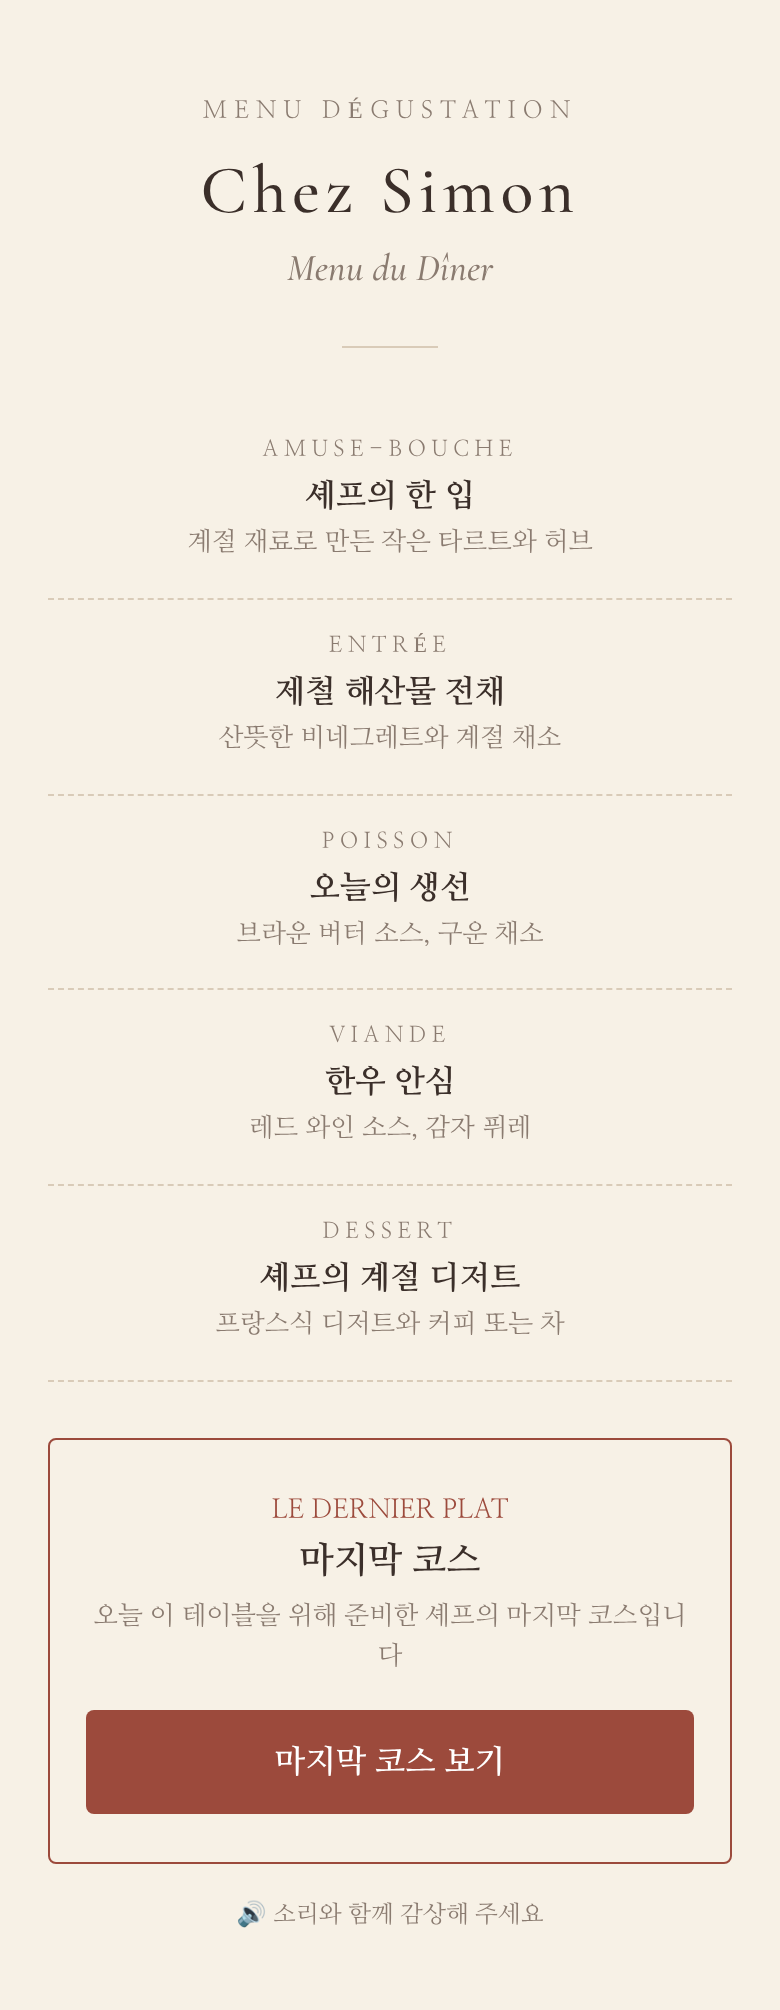
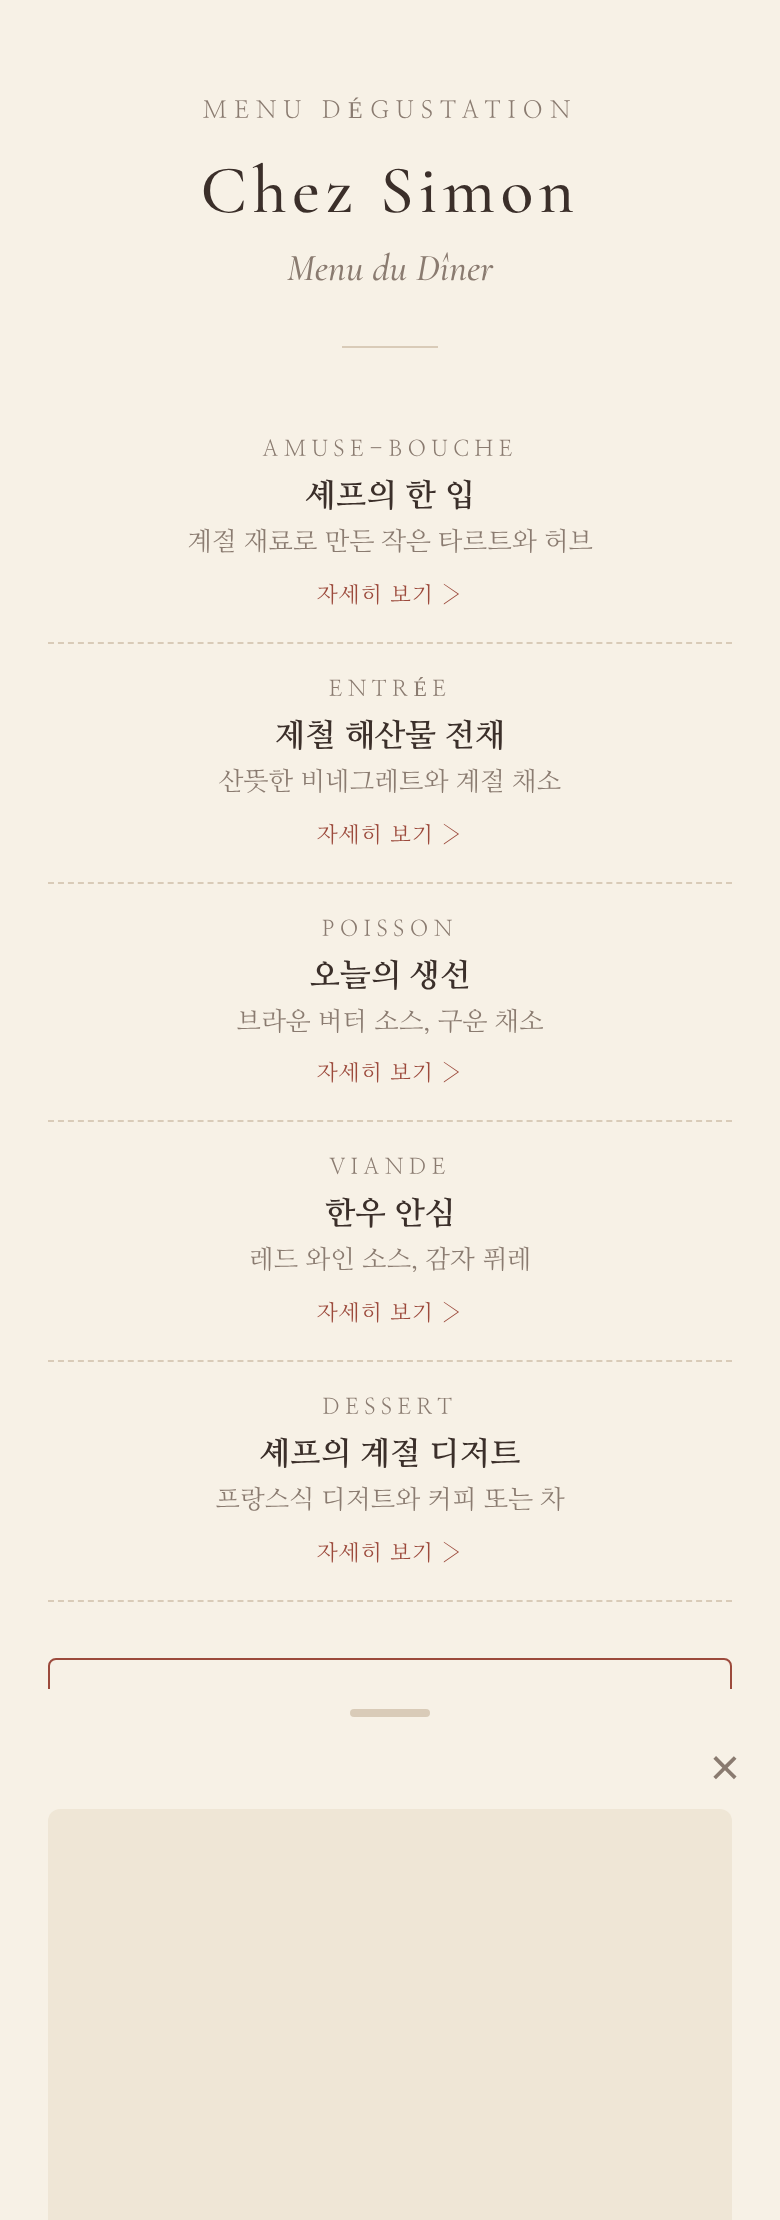
Add tappable course detail sheets to the dinner menu page
Claude-Session: https://claude.ai/code/session_018uBD5v6mYpfrg2LWqCw87m

diff --git a/proposal/index.html b/proposal/index.html
@@ -71,6 +71,37 @@
   #ending.show { opacity: 1; }
   #ending .ring { font-size: 44px; }
   #ending p { font-family: "Nanum Pen Script", cursive; font-size: 34px; margin-top: 18px; line-height: 1.4; }
+  .course[data-i] { cursor: pointer; position: relative; -webkit-tap-highlight-color: transparent; }
+  .course[data-i]::after { content: "자세히 보기 ›"; display: block; margin-top: 8px; font-size: 11px; letter-spacing: .05em; color: var(--accent); }
+  .course[data-i]:active { background: rgba(156,74,60,.05); }
+
+  /* 메뉴 상세 */
+  #sheetBg { position: fixed; inset: 0; background: rgba(30,20,15,.45); opacity: 0; pointer-events: none; transition: opacity .3s; z-index: 5; }
+  #sheet {
+    position: fixed; left: 0; right: 0; bottom: 0; max-height: 88dvh; overflow-y: auto; z-index: 6;
+    background: var(--paper); border-radius: 18px 18px 0 0; padding: 0 0 32px;
+    transform: translateY(100%); transition: transform .35s ease;
+  }
+  body.sheet-open #sheetBg { opacity: 1; pointer-events: auto; }
+  body.sheet-open #sheet { transform: none; }
+  .sheet-inner { max-width: 440px; margin: 0 auto; }
+  .grip { width: 40px; height: 4px; border-radius: 2px; background: var(--line); margin: 10px auto 0; }
+  .close { position: sticky; top: 0; display: flex; justify-content: flex-end; padding: 8px 12px 0; }
+  .close button { border: none; background: none; font-size: 26px; line-height: 1; color: var(--muted); padding: 4px 8px; cursor: pointer; }
+  .visual { margin: 4px 24px 0; aspect-ratio: 4 / 3; border-radius: 6px; overflow: hidden; background: #efe6d6; display: flex; align-items: center; justify-content: center; }
+  .visual img { width: 100%; height: 100%; object-fit: cover; }
+  .visual svg { width: 46%; height: auto; stroke: #b39c80; fill: none; stroke-width: 1.4; stroke-linecap: round; stroke-linejoin: round; }
+  .sheet-head { text-align: center; padding: 22px 24px 6px; }
+  .sheet-head small { font-size: 11px; letter-spacing: .3em; color: var(--muted); }
+  .sheet-head h2 { font-size: 22px; margin: 8px 0 4px; }
+  .sheet-head .fr { font-size: 17px; }
+  .sheet-body { padding: 8px 28px 0; }
+  .sheet-body h3 { font-family: "Cormorant Garamond", serif; font-weight: 500; font-size: 13px; letter-spacing: .25em; color: var(--accent); margin: 22px 0 8px; }
+  .sheet-body p, .sheet-body li { font-size: 14px; line-height: 1.8; }
+  .sheet-body ul { list-style: none; }
+  .sheet-body li { padding-left: 14px; position: relative; }
+  .sheet-body li::before { content: "·"; position: absolute; left: 2px; color: var(--accent); }
+  .pairing { margin: 24px 28px 0; padding: 14px 16px; border: 1px solid var(--line); border-radius: 4px; font-size: 13px; color: var(--muted); line-height: 1.7; }
 </style>
 </head>
 <body>
@@ -83,15 +114,15 @@
     <div class="divider"></div>
 
     <!-- 당일 실제 코스에 맞춰 바꾸면 더 자연스러움 -->
-    <div class="course"><small>AMUSE-BOUCHE</small>
+    <div class="course" data-i="0" role="button" tabindex="0"><small>AMUSE-BOUCHE</small>
       <p class="ko">셰프의 한 입</p><div class="desc">계절 재료로 만든 작은 타르트와 허브</div></div>
-    <div class="course"><small>ENTRÉE</small>
+    <div class="course" data-i="1" role="button" tabindex="0"><small>ENTRÉE</small>
       <p class="ko">제철 해산물 전채</p><div class="desc">산뜻한 비네그레트와 계절 채소</div></div>
-    <div class="course"><small>POISSON</small>
+    <div class="course" data-i="2" role="button" tabindex="0"><small>POISSON</small>
       <p class="ko">오늘의 생선</p><div class="desc">브라운 버터 소스, 구운 채소</div></div>
-    <div class="course"><small>VIANDE</small>
+    <div class="course" data-i="3" role="button" tabindex="0"><small>VIANDE</small>
       <p class="ko">한우 안심</p><div class="desc">레드 와인 소스, 감자 퓌레</div></div>
-    <div class="course"><small>DESSERT</small>
+    <div class="course" data-i="4" role="button" tabindex="0"><small>DESSERT</small>
       <p class="ko">셰프의 계절 디저트</p><div class="desc">프랑스식 디저트와 커피 또는 차</div></div>
 
     <div class="last">
@@ -100,9 +131,29 @@
       <span>오늘 이 테이블을 위해 준비한 마지막 코스입니다</span>
       <button class="open" id="openBtn">마지막 코스 보기</button>
     </div>
-    <div class="note">🔊 소리와 함께 감상해 주세요</div>
+    <div class="note">메뉴를 누르면 자세한 설명을 볼 수 있습니다<br>🔊 마지막 코스는 소리와 함께 감상해 주세요</div>
   </div>
 </section>
+
+<div id="sheetBg"></div>
+<div id="sheet" aria-hidden="true">
+  <div class="sheet-inner">
+    <div class="grip"></div>
+    <div class="close"><button id="closeSheet" aria-label="닫기">×</button></div>
+    <div class="visual" id="sVisual"></div>
+    <div class="sheet-head">
+      <small id="sTag"></small>
+      <h2 id="sName"></h2>
+      <div class="fr" id="sFr"></div>
+    </div>
+    <div class="sheet-body">
+      <h3>INGRÉDIENTS</h3><ul id="sIng"></ul>
+      <h3>PRÉPARATION</h3><p id="sPrep"></p>
+      <h3>DÉGUSTATION</h3><p id="sTaste"></p>
+    </div>
+    <div class="pairing" id="sPair"></div>
+  </div>
+</div>
 
 <section id="loading" class="screen hidden">
   <div class="dots"><span></span><span></span><span></span></div>
@@ -121,6 +172,68 @@
 </section>
 
 <script>
+  // 코스 상세: 실제 요리 사진이 있으면 img에 파일 이름을 넣으면 됨 (예: "amuse.jpg")
+  const ICONS = {
+    tart: '<svg viewBox="0 0 100 70"><ellipse cx="50" cy="44" rx="34" ry="10"/><path d="M16 44c2 8 66 8 68 0"/><path d="M36 38c4-10 10-16 14-24M50 38c0-10 4-18 10-24M62 38c-2-8 2-14 8-18"/></svg>',
+    shell: '<svg viewBox="0 0 100 70"><path d="M20 50c0-22 14-36 30-36s30 14 30 36z"/><path d="M50 14v36M36 18l8 32M64 18l-8 32M26 30l14 20M74 30L60 50"/><path d="M14 54h72"/></svg>',
+    fish: '<svg viewBox="0 0 100 70"><path d="M14 36c14-16 40-18 58 0-18 18-44 16-58 0z"/><path d="M72 36l14-12v24z"/><circle cx="28" cy="33" r="1.6"/><path d="M42 26c4 6 4 14 0 20"/></svg>',
+    meat: '<svg viewBox="0 0 100 70"><ellipse cx="50" cy="48" rx="38" ry="9"/><path d="M30 44c0-12 10-18 20-18s20 6 20 18"/><path d="M38 34c6-2 18-2 24 0M36 40c8-2 20-2 28 0"/></svg>',
+    dessert: '<svg viewBox="0 0 100 70"><path d="M24 50h52"/><path d="M30 50c0-14 8-24 20-24s20 10 20 24"/><path d="M50 26v-8"/><circle cx="50" cy="15" r="3"/><path d="M38 40c4 2 8 2 12 0s8-2 12 0"/></svg>',
+  };
+  const COURSES = [
+    { tag: "AMUSE-BOUCHE", name: "셰프의 한 입", fr: "Tartelette aux herbes", icon: "tart", img: "",
+      ing: ["버터 향 가득한 바삭한 타르트 셸", "제철 허브와 신선한 참치", "레몬 제스트, 올리브 오일"],
+      prep: "버터를 듬뿍 넣은 반죽을 얇게 밀어 한 입 크기로 구워냅니다. 차갑게 손질한 참치와 곱게 다진 허브를 올리고, 마지막에 레몬 제스트를 살짝 뿌려 향을 살립니다.",
+      taste: "한 입에 넣어 보세요. 바삭한 타르트가 부서지는 소리 뒤로 허브 향이 먼저 퍼지고, 참치의 부드러움이 천천히 따라옵니다. 오늘 저녁의 첫인사입니다.",
+      pair: "식욕을 깨우는 상큼한 스파클링 와인과 잘 어울립니다." },
+    { tag: "ENTRÉE", name: "제철 해산물 전채", fr: "Fruits de mer, vinaigrette", icon: "shell", img: "",
+      ing: ["달큼한 홍새우와 제철 해산물", "화이트 아스파라거스, 계절 채소", "셰리 비네거와 머스터드로 만든 비네그레트"],
+      prep: "해산물은 단맛이 살아 있도록 짧게 익히고, 채소는 아삭함을 남겨 데쳐 냅니다. 새콤한 비네그레트를 마지막에 둘러 재료 각각의 맛이 또렷하게 느껴지도록 했습니다.",
+      taste: "먼저 해산물만 따로 맛본 뒤, 채소와 소스를 함께 올려 드셔 보세요. 같은 재료가 소스 하나로 얼마나 달라지는지 느끼실 수 있습니다.",
+      pair: "미네랄감 있는 화이트 와인이 해산물의 단맛을 끌어올립니다." },
+    { tag: "POISSON", name: "오늘의 생선", fr: "Poisson du jour, beurre noisette", icon: "fish", img: "",
+      ing: ["그날 가장 좋은 상태의 흰살 생선", "고소한 브라운 버터(뵈르 누아제트)", "구운 계절 채소, 케이퍼, 허브"],
+      prep: "껍질 쪽부터 팬에 천천히 구워 껍질은 바삭하게, 속살은 촉촉하게 익힙니다. 버터를 갈색이 될 때까지 끓여 헤이즐넛 같은 고소한 향을 낸 소스를 곁들입니다.",
+      taste: "껍질의 바삭함과 속살의 부드러움을 한 번에 느껴 보세요. 소스는 생선 위보다 접시 가장자리에서 조금씩 찍어 드시면 고소한 향이 더 오래 남습니다.",
+      pair: "버터 향과 잘 맞는 부드러운 질감의 화이트 와인을 추천드립니다." },
+    { tag: "VIANDE", name: "한우 안심", fr: "Filet de bœuf, sauce au vin rouge", icon: "meat", img: "",
+      ing: ["결이 고운 한우 안심", "레드 와인과 육수를 오래 졸인 소스", "버터를 넣어 곱게 내린 감자 퓌레"],
+      prep: "고기는 겉면을 강하게 구워 육즙을 가둔 뒤, 충분히 쉬게 해 속까지 고르게 익힙니다. 레드 와인 소스는 여러 시간 졸여 깊은 맛을 냈고, 감자 퓌레는 체에 여러 번 내려 부드럽게 만들었습니다.",
+      taste: "첫 점은 소스 없이 고기 본연의 맛으로, 다음 점은 소스와 퓌레를 함께 드셔 보세요. 오늘 코스의 가장 깊은 맛을 담은 접시입니다.",
+      pair: "탄닌이 부드러운 레드 와인이 소스의 풍미를 길게 이어 줍니다." },
+    { tag: "DESSERT", name: "셰프의 계절 디저트", fr: "Dessert de saison", icon: "dessert", img: "",
+      ing: ["제철 과일", "바닐라 빈을 넣은 크림", "바삭한 버터 사블레"],
+      prep: "과일은 가장 맛있는 상태 그대로 살리고, 크림은 달지 않게 만들어 과일의 향을 받쳐 줍니다. 사블레를 곁들여 부드러움과 바삭함이 함께 느껴지도록 했습니다.",
+      taste: "천천히 드셔 보세요. 저녁의 마무리이자, 아직 남아 있는 마지막 코스를 위한 준비입니다.",
+      pair: "커피 또는 차와 함께 즐기시길 권해 드립니다." },
+  ];
+
+  const sheet = document.getElementById("sheet");
+  function openCourse(i) {
+    const c = COURSES[i];
+    document.getElementById("sVisual").innerHTML = c.img ? `<img src="${c.img}" alt="${c.name}">` : ICONS[c.icon];
+    document.getElementById("sTag").textContent = c.tag;
+    document.getElementById("sName").textContent = c.name;
+    document.getElementById("sFr").textContent = c.fr;
+    document.getElementById("sIng").innerHTML = c.ing.map(x => `<li>${x}</li>`).join("");
+    document.getElementById("sPrep").textContent = c.prep;
+    document.getElementById("sTaste").textContent = c.taste;
+    document.getElementById("sPair").textContent = "🍷 " + c.pair;
+    sheet.scrollTop = 0;
+    sheet.setAttribute("aria-hidden", "false");
+    document.body.classList.add("sheet-open");
+  }
+  function closeCourse() {
+    sheet.setAttribute("aria-hidden", "true");
+    document.body.classList.remove("sheet-open");
+  }
+  document.querySelectorAll(".course[data-i]").forEach(el => {
+    el.addEventListener("click", () => openCourse(+el.dataset.i));
+    el.addEventListener("keydown", e => { if (e.key === "Enter") openCourse(+el.dataset.i); });
+  });
+  document.getElementById("closeSheet").addEventListener("click", closeCourse);
+  document.getElementById("sheetBg").addEventListener("click", closeCourse);
+
   const $ = (id) => document.getElementById(id);
   const video = $("video");
 
